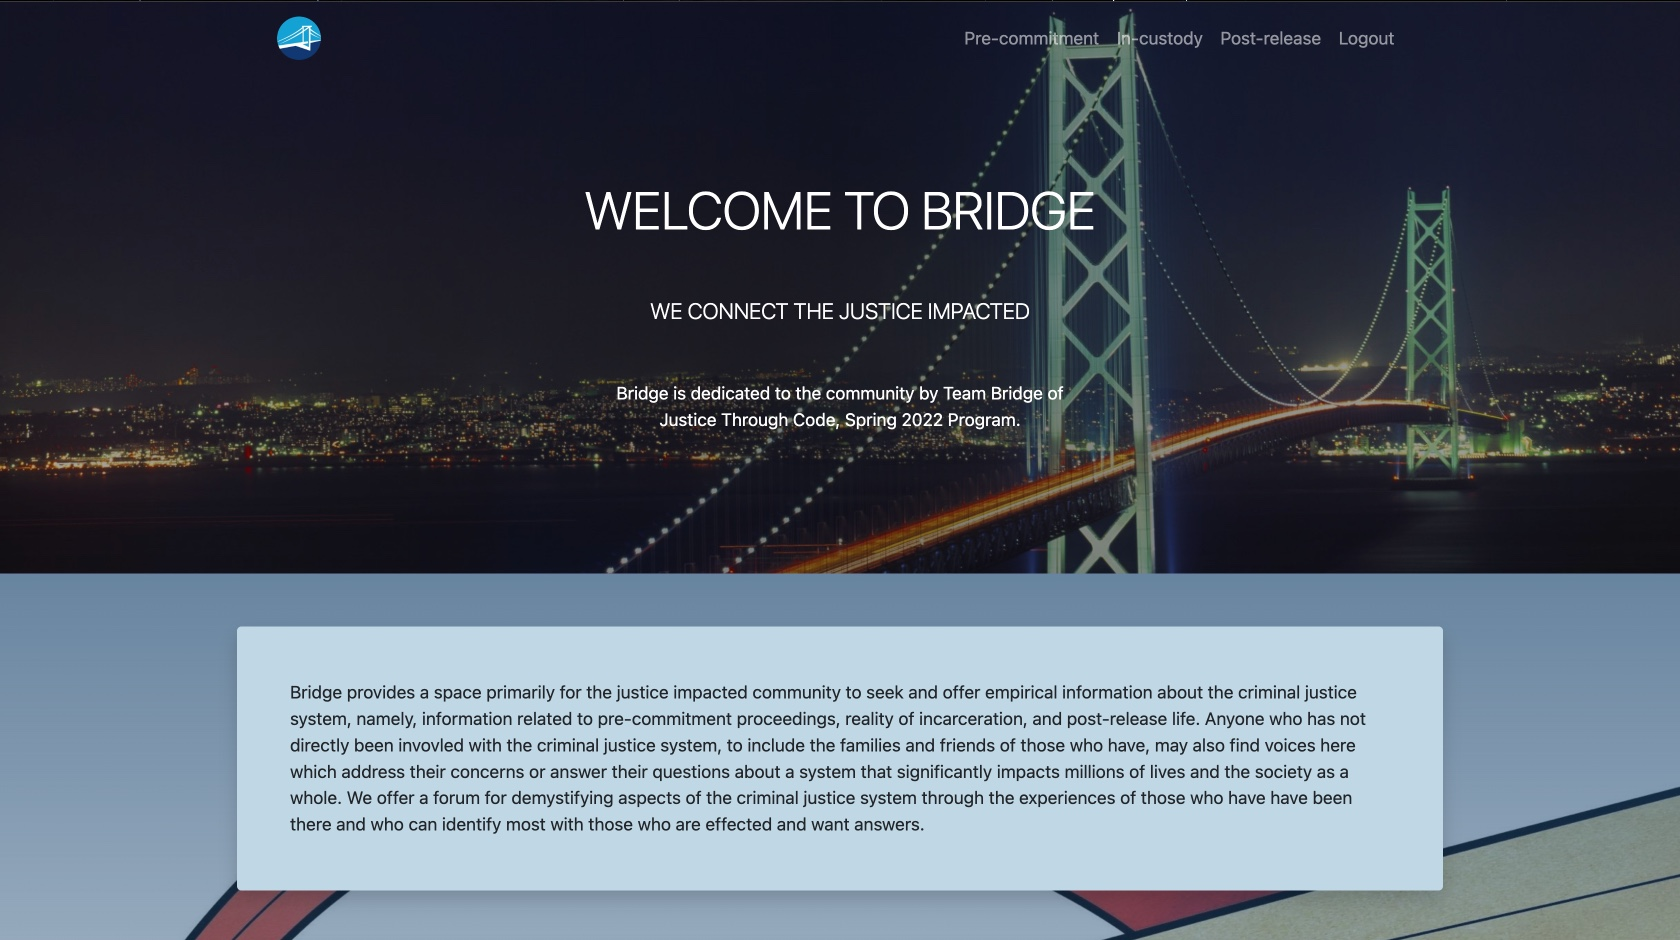
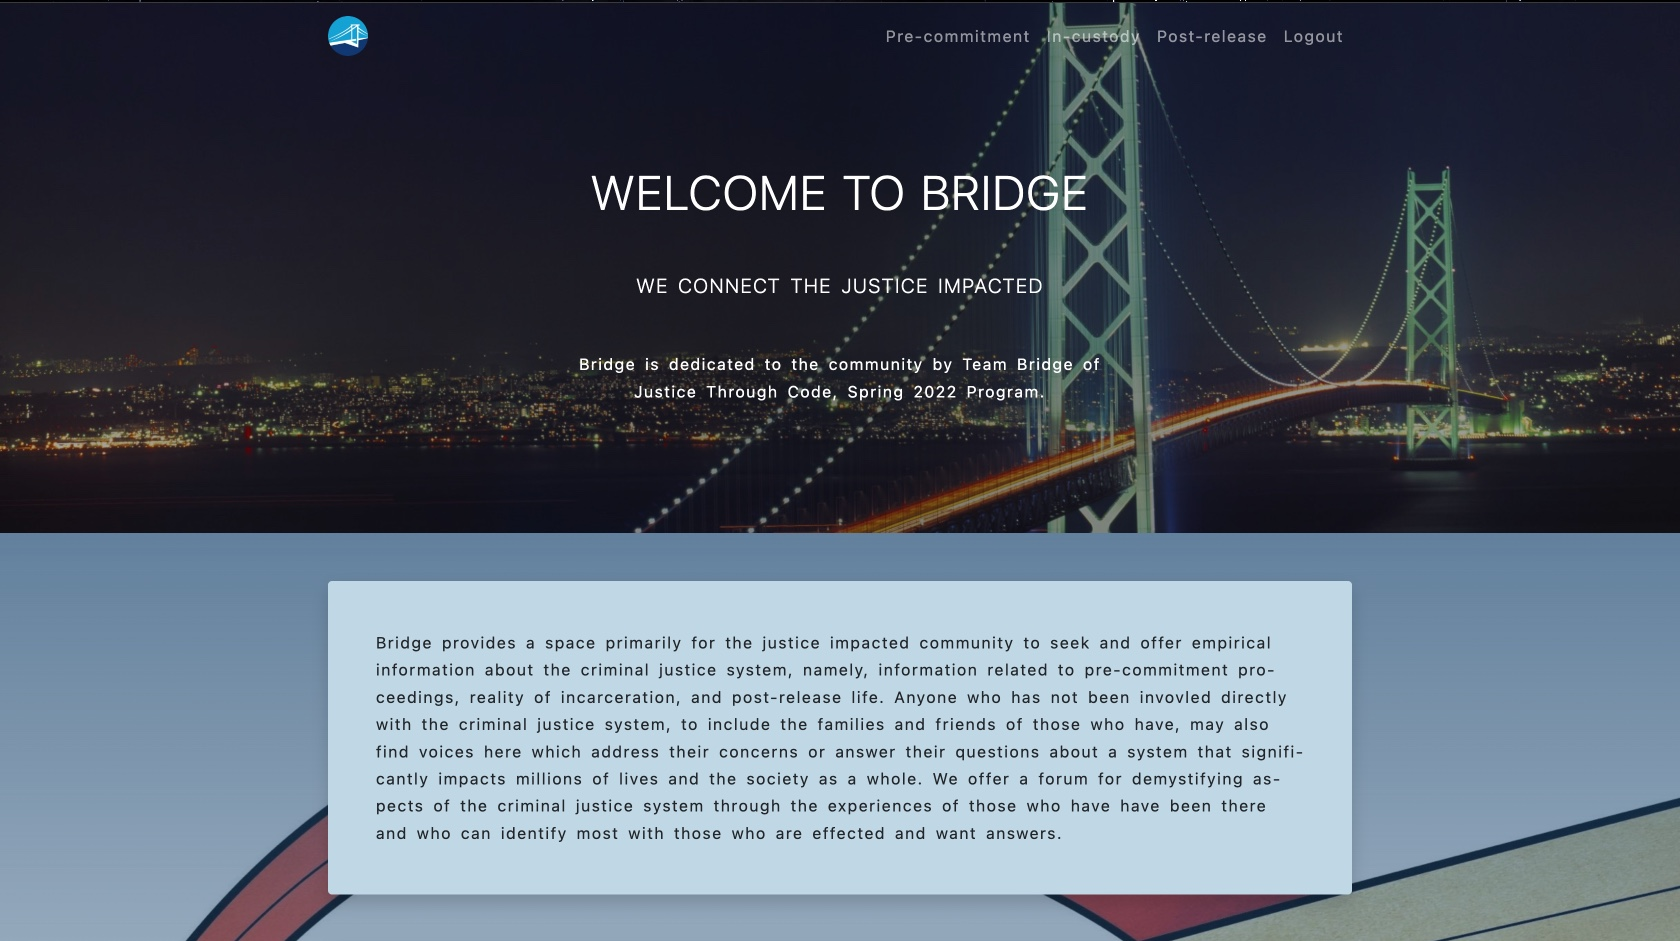
Update and replace olde site_screenshot (for README) that had wrong max-width of page container

diff --git a/bridge/bridgeapp/templates/login.html b/bridge/bridgeapp/templates/login.html
@@ -19,11 +19,11 @@
     <!--Registration-->
     <div class="register-form p-3 rounded shadow col-11 col-sm-9 col-md-6 text-success">
         <div class="p-3 border border-light rounded d-flex flex-column">
-            <h3 class="mb-3">Register</h3>
+            <h3 class="mb-3">Sign Up</h3>
             <form method="POST" action="{% url 'login' %}"">
                 {% csrf_token %}
                 {{ register_form.as_p }}
-                <button class="btn btn-sm btn-outline-success" type="submit" name="register">Register</button>
+                <button class="btn btn-sm btn-outline-success" type="submit" name="register">Sign Up</button>
             </form>
         </div>
     </div>

diff --git a/README.md b/README.md
@@ -1,5 +1,5 @@
 <p align="center"><img src="./assets/site_screenshot.jpg" alt="site screenshot" /></p>
-<h2 align="center">Bridge App</h2>
+<h2 align="center">The Bridge App</h2>
 <h4 align="center">Bryan Garrett, Chung Kao, Richard Lee, Anthony Lopez</h4>
 <p align="center">Columbia University - Justice Through Code</p>
 <p align="center"><img width="600" src="./assets/jtc_site_screenshot.png" /></p>
